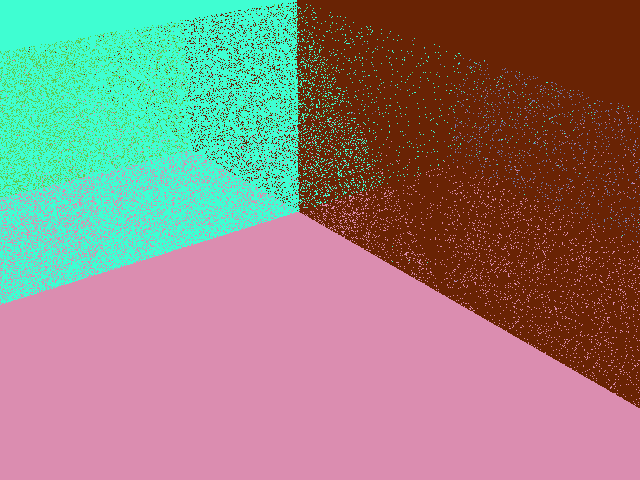
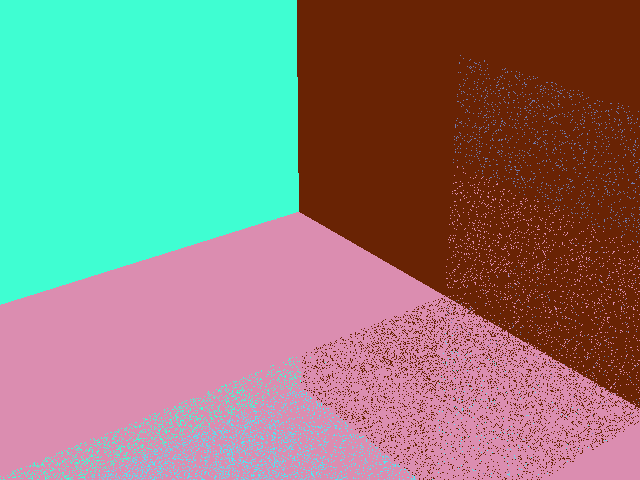
bug in the intersection of triangle

Changed region(s): [[0.0, 0.0, 0.625, 0.625], [0.0312, 0.625, 1.0, 1.0], [0.625, 0.5, 0.6562, 0.5625]]

diff --git a/src/modules/objects.py b/src/modules/objects.py
@@ -1,6 +1,7 @@
-from math import sqrt, inf
+from math import sqrt, inf, hypot
 from modules.ray import Ray
 import numpy as np
+from time import sleep
 
 class Object:
     def __init__(self, _objects) -> None:
@@ -65,48 +66,53 @@ class Triangle(Object):
         self.point_A, self.point_B, self.point_C = coords
         self.point_A = np.array(self.point_A)
         self.point_B = np.array(self.point_B)
-        self.point_C = np.array(self.point_C)
+        self.point_C = np.array(self.point_C)       
         self.color = color
         
         # calculating normal vector to the plane
-        self.v = np.subtract(self.point_B, self.point_A)
-        self.u = np.subtract(self.point_C, self.point_A)
-        self.normal = np.cross(self.u, self.v)
+        u = self.point_B - self.point_A
+        v = self.point_C - self.point_A
         
+        self.normal = np.cross(u, v)
+
         # pre processing
         projection = lambda a, b : (np.dot(a, b) / np.dot(b, b)) * b
-        self.h_b = self.u - projection(self.u, self.v)
-        self.h_c = self.v - projection(self.v, self.u)
-
-        self.h_b = (np.dot(self.h_b, self.h_b) ** -1) * self.h_b
-        self.h_c = (np.dot(self.h_c, self.h_c) ** -1) * self.h_c
         
+        h_b = u - projection(u, v)
+        h_c = v - projection(v, u)
+
+        self.h_b =  h_b / (np.dot(h_b, h_b))
+        self.h_c =  h_c / (np.dot(h_c, h_c))
+        print(self.h_b, self.h_c)
+        
+
+
     def intersect(self, ray: Ray):
         # plane intersection function
+        print(ray.direction, self.normal)
         v = np.dot(ray.direction, self.normal)
-        # print(v)
+        print(v)
         EPSLON = 0.0000001
     
         if abs(v) < EPSLON: # parallel to the plane
             t =  inf
         else:
-            h = np.dot(self.point_A - ray.origin, self.normal) # é com o point A?
+            h = np.dot(self.point_A - ray.origin, self.normal) 
             t_parameter = h / v
-            print(t_parameter)
             t = inf if t_parameter < 0 else t_parameter
         
         
         if t == inf: # not intersection
             return inf
 
-        # calculation intersection
+        # calculation intersection point
         P = ray.origin + (t * ray.direction)
         vector_v = P - self.point_A
         beta = np.dot(vector_v, self.h_b)
         gama =  np.dot(vector_v, self.h_c)
         alpha = 1 - (beta + gama)
 
-        if 0 <= alpha + beta + gama <= 1:            
+        if 0 <= alpha + beta + gama <= 1:           
             return t # return escalar
         else:
             return inf
